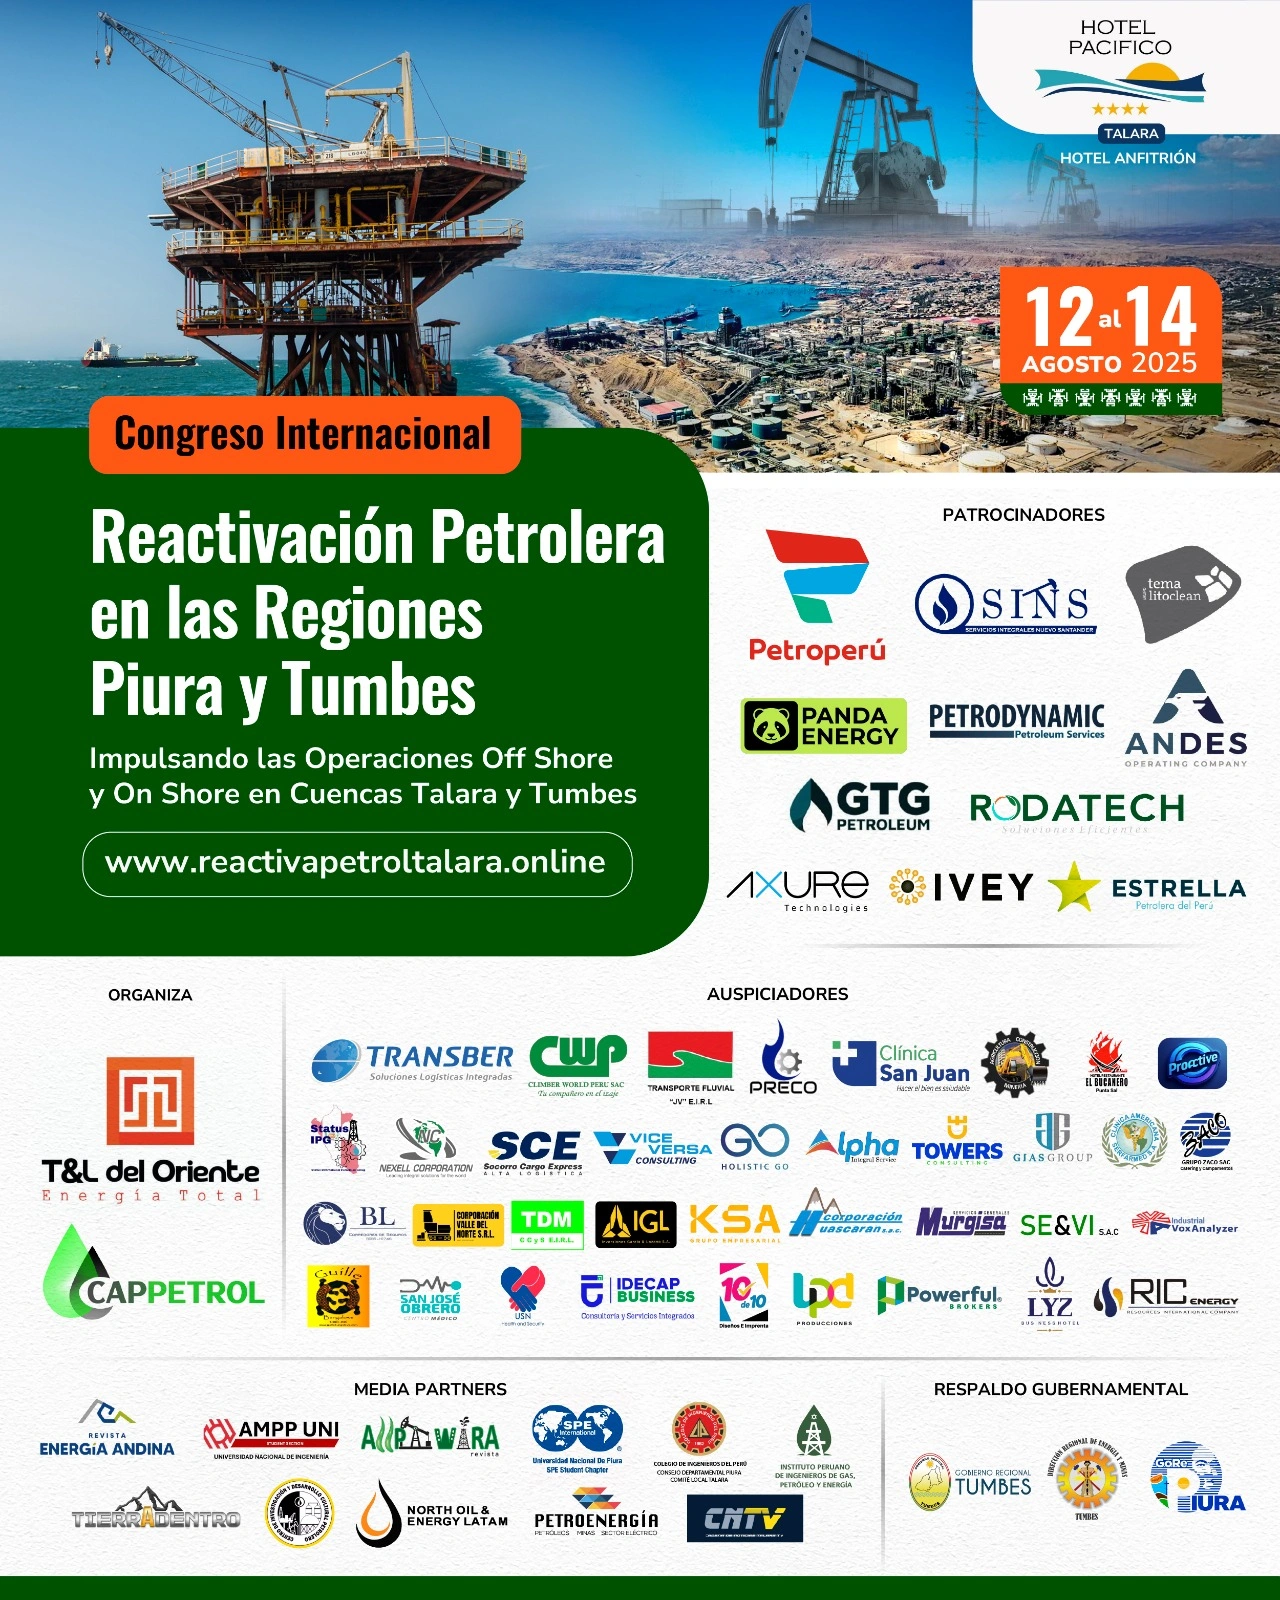
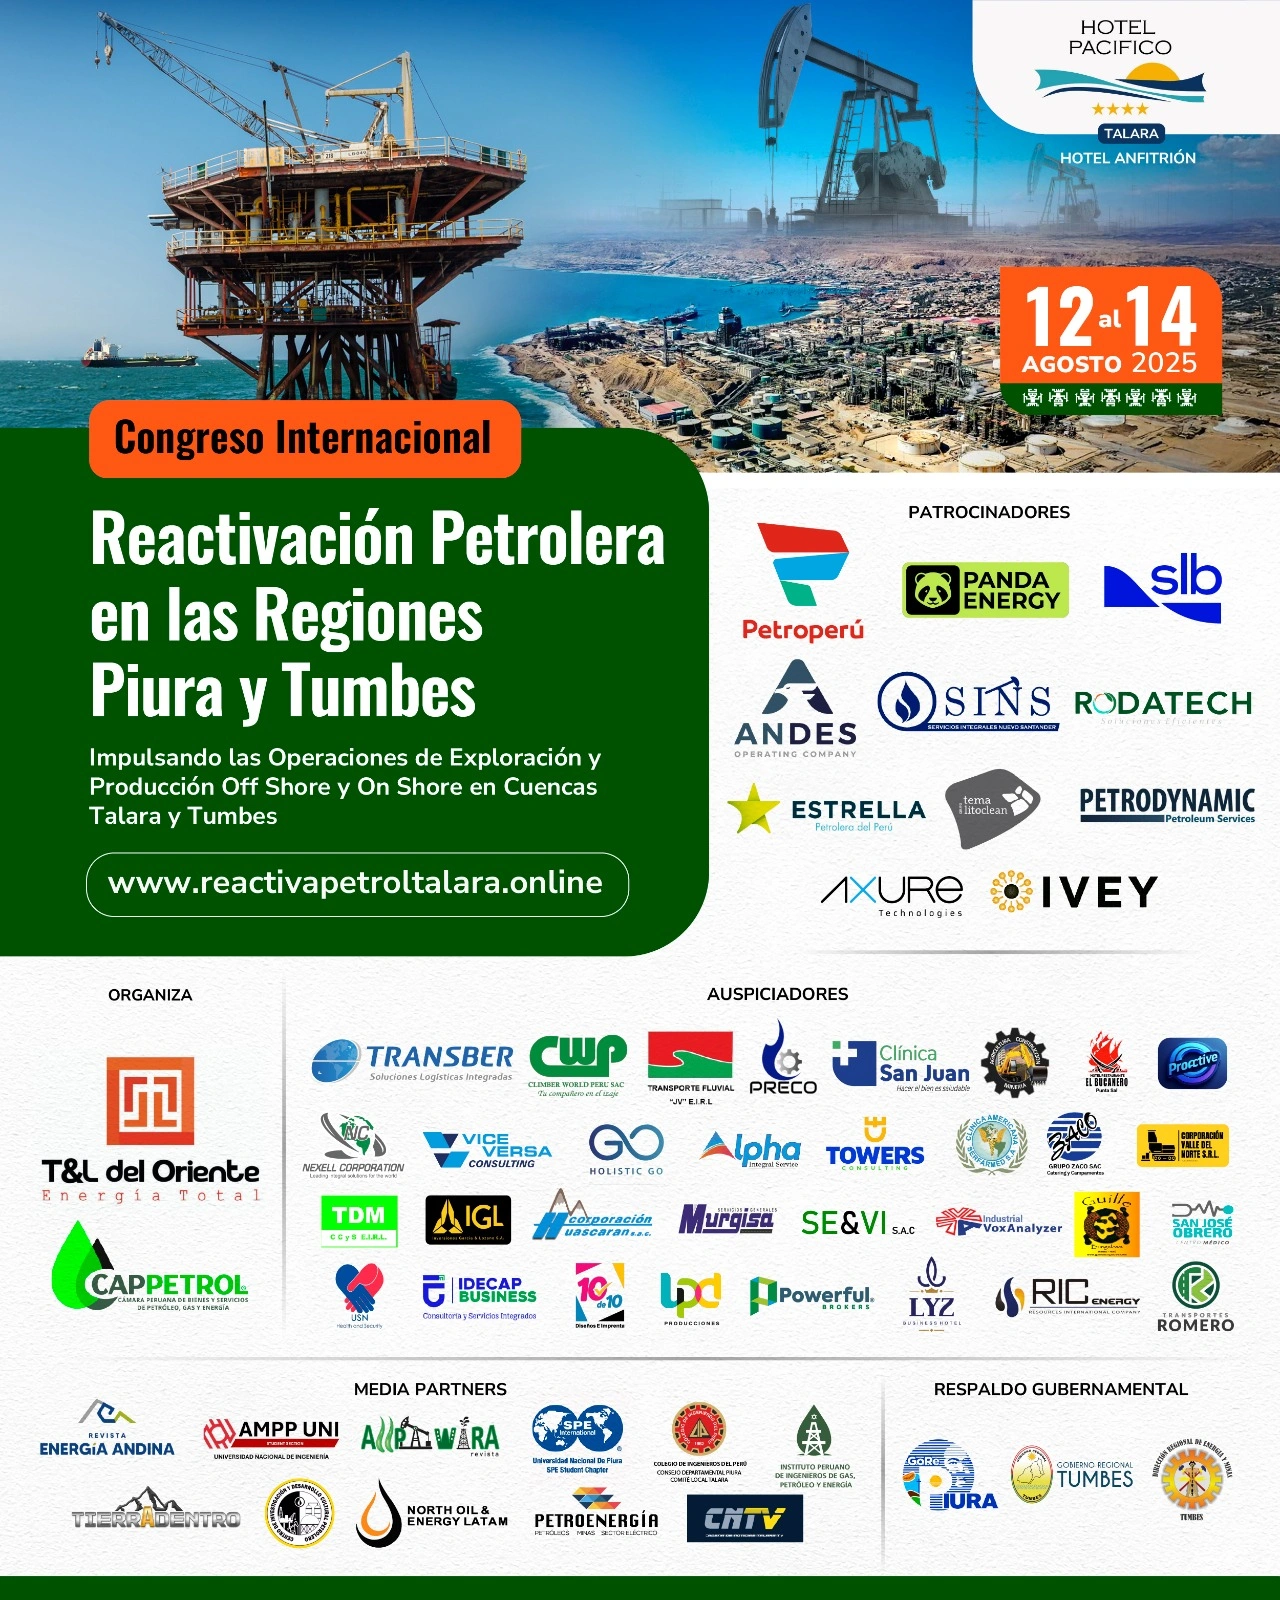
nuevos exponentes

diff --git a/app/page.tsx b/app/page.tsx
@@ -699,6 +699,23 @@ export default function Home() {
                   isSpecial: false,
                   country: "E.E.U.U.",
                 },
+                {
+                  name: "Ing. Luis Alfonso Del Angel Calles",
+                  role: "Compañía Operadora SINS",
+                  image: "delangelcalles.jpg",
+                  topic:
+                    "La Nueva Frontera de la Prevención, Analisis de Riesgo enfocados en el cambio",
+                  isSpecial: false,
+                  country: "E.E.U.U.",
+                },
+                {
+                  name: "Ing. Tomas Diaz del Águila",
+                  role: "Gerente Corporativo Exploración Producción, Petroleos del Perú - Petroperú S.A",
+                  image: "diazdelaguila.webp",
+                  topic: "Integración Vertical Petroperú SA",
+                  isSpecial: false,
+                  country: "Perú",
+                },
               ].map((speaker, index) => (
                 <Card
                   key={index}
@@ -1988,7 +2005,7 @@ export default function Home() {
                 </div>
                 {/* Agregar octava fila con 3 recuadros adicionales */}
                 <div className="grid grid-cols-1 sm:grid-cols-2 lg:grid-cols-3 gap-4 sm:gap-6 md:gap-8 items-center justify-items-center mt-6">
-                  {["ricenergy.jpg"].map((logo, index) => (
+                  {["ricenergy.jpg", "romero.webp"].map((logo, index) => (
                     <div
                       key={index + 12}
                       className="bg-white rounded-lg border-2 border-amber-500 shadow-md hover:shadow-lg transition-all duration-300 w-full max-w-[280px] flex items-center justify-center overflow-hidden group"
